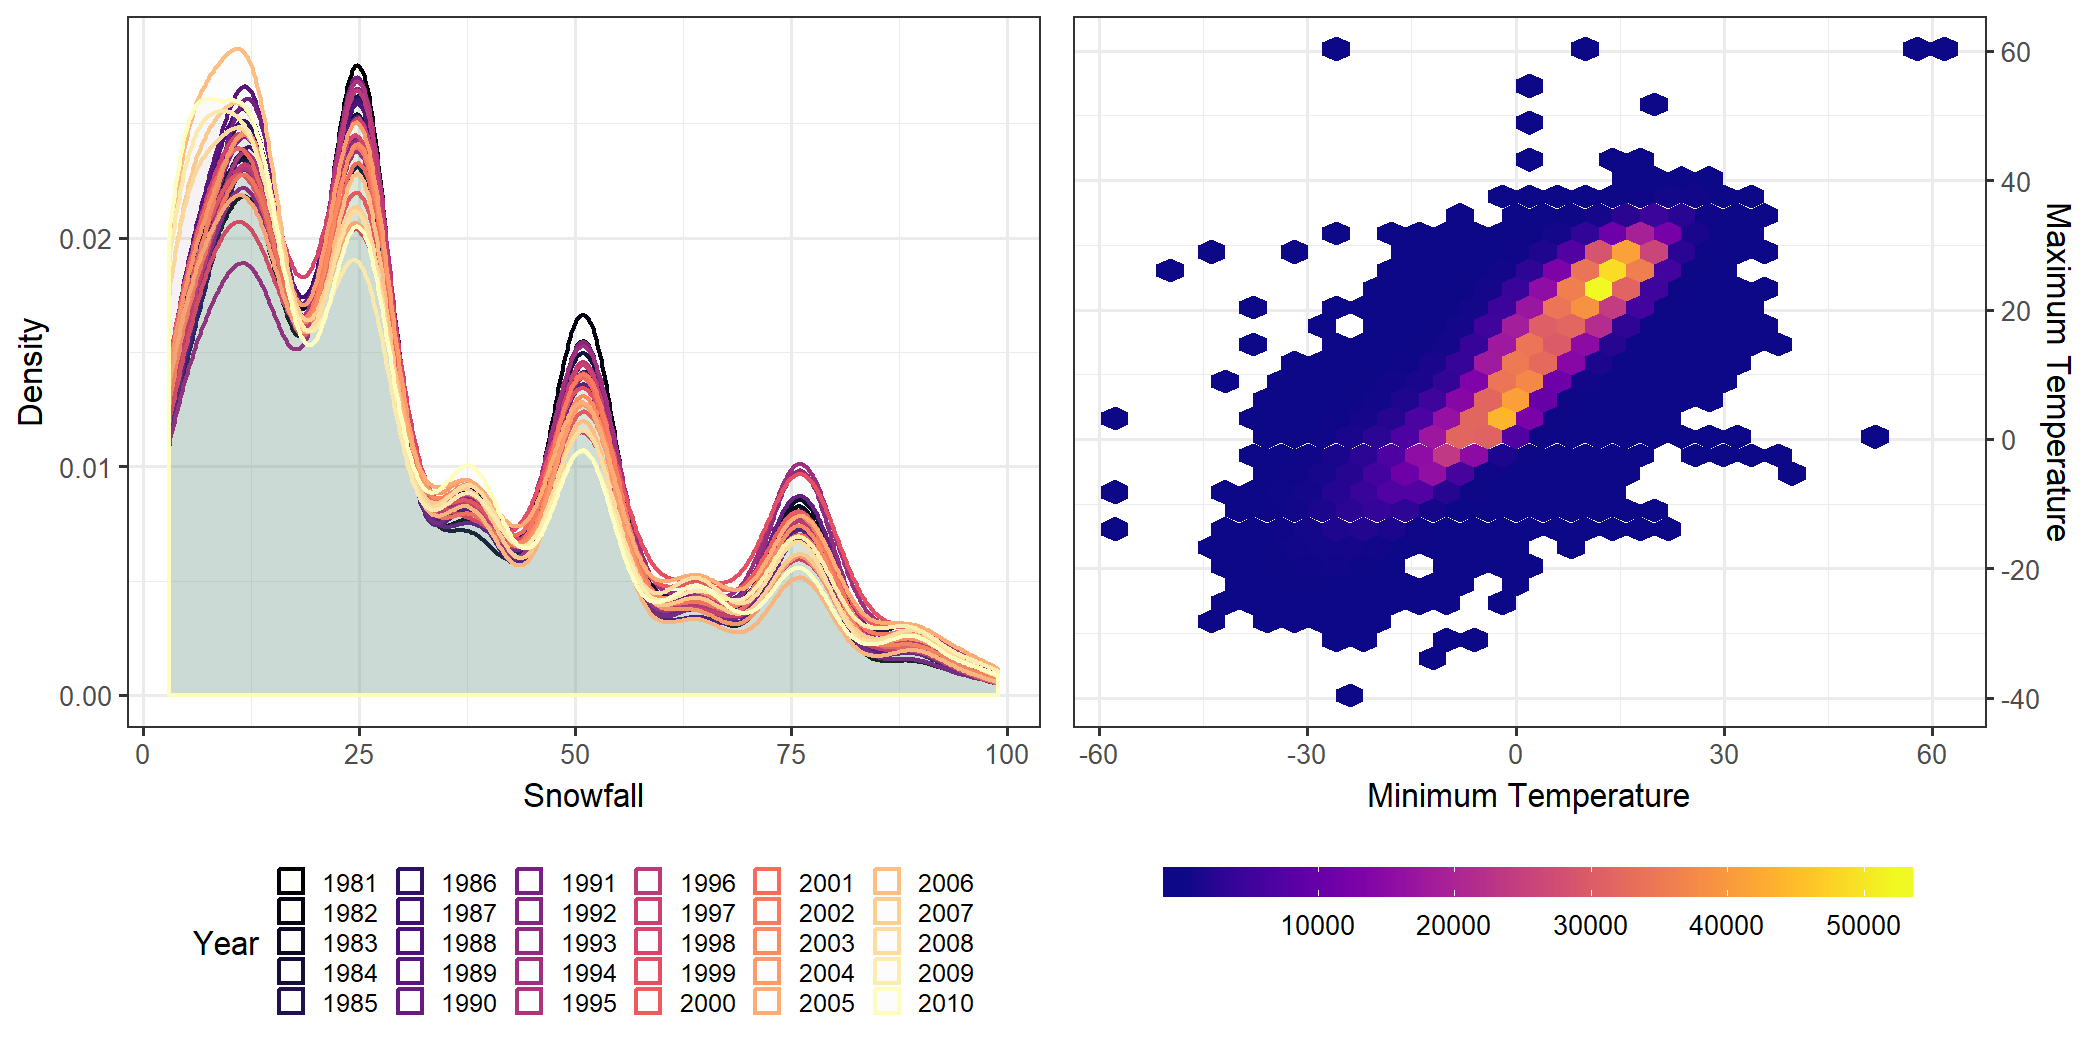
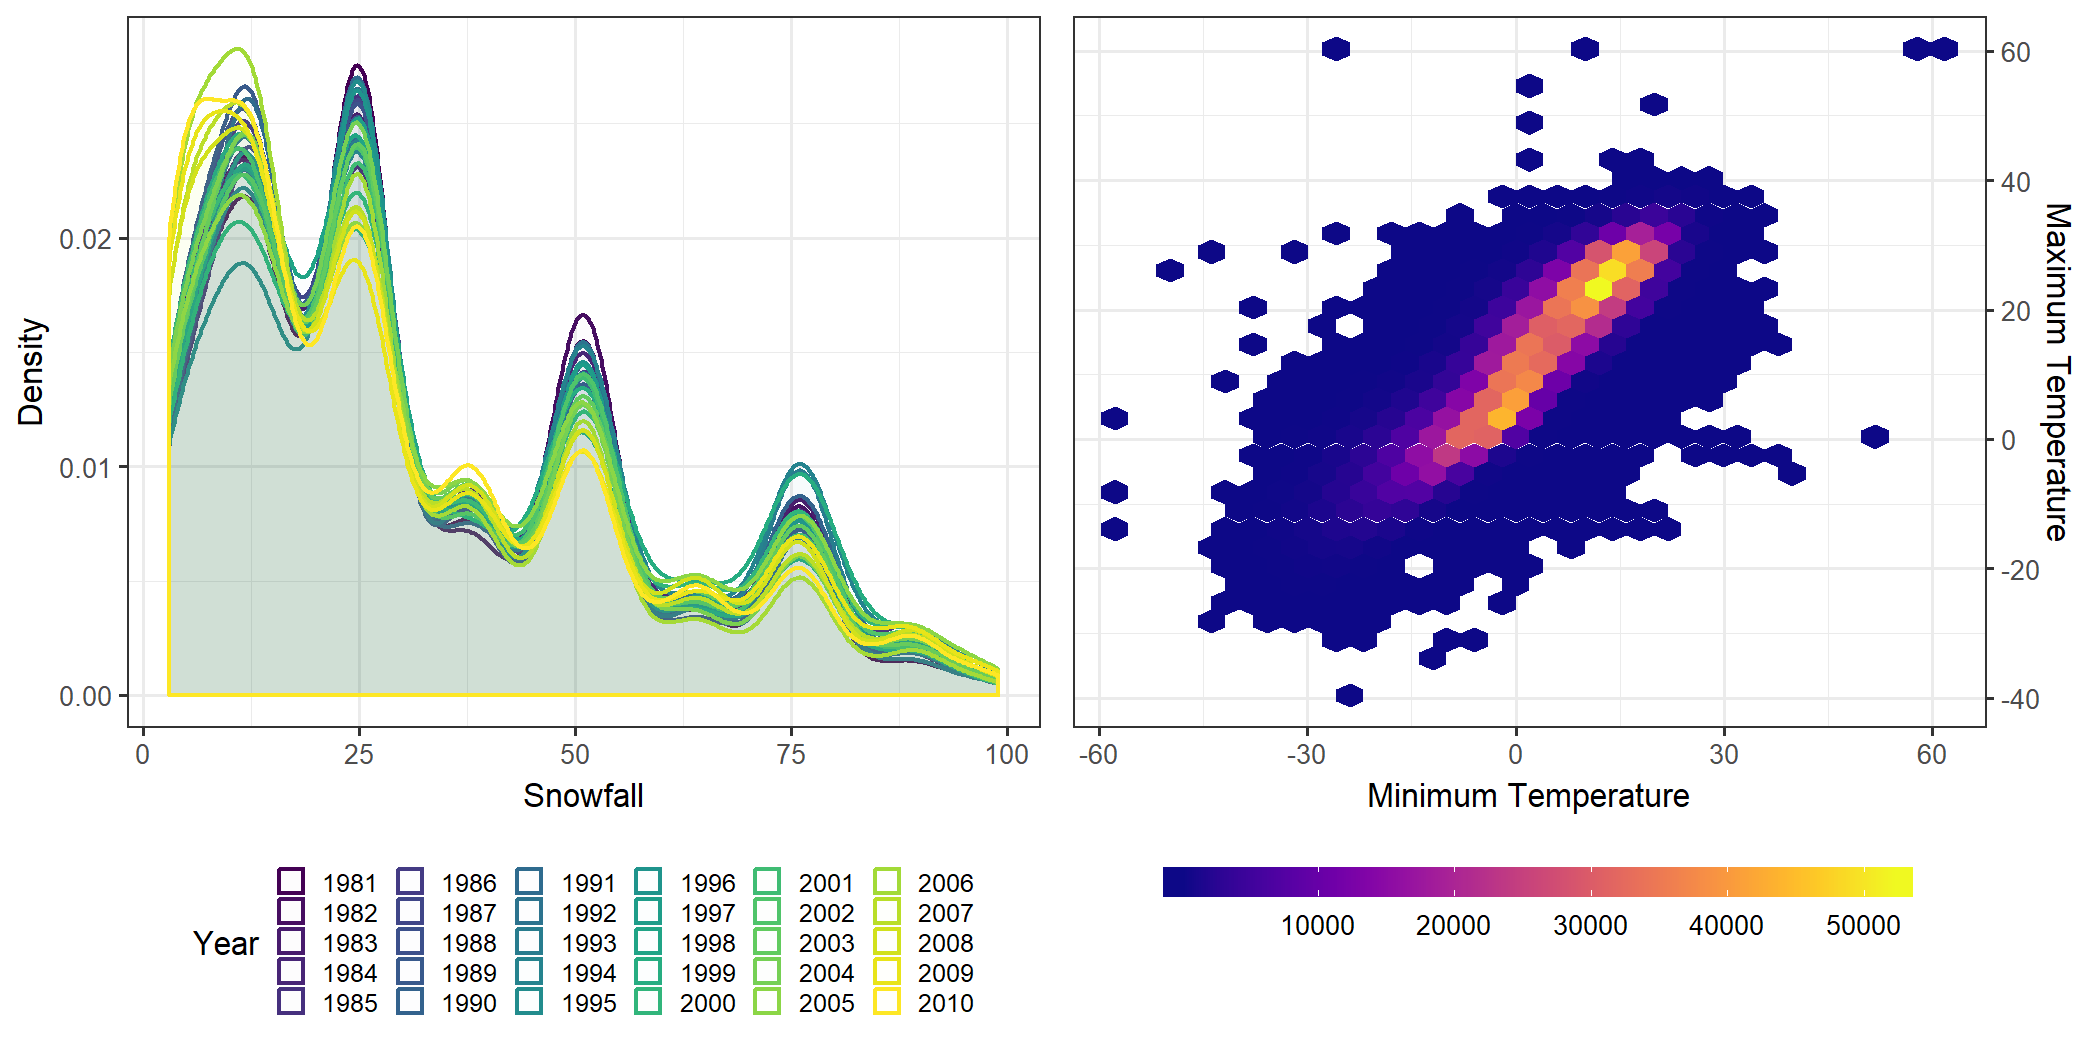
answered questions for problem 1

diff --git a/p8105_hw3_ntw2117.md b/p8105_hw3_ntw2117.md
@@ -18,6 +18,11 @@ brfss_data <- brfss_data %>%
                        -sample_size, 
                        -(confidence_limit_low:geo_location)) %>% 
   mutate(response = as.factor(response))
+
+brfss_data$response <- fct_relevel(brfss_data$response, 
+                                   "Excellent", 
+                                   "Very good", 
+                                   "Good")
 ```
 
 #### Questions and plots
@@ -27,17 +32,17 @@ brfss_data %>%
   filter(year == 2002) %>% 
   distinct(state, location) %>% 
   count(state) %>% 
-  filter(n == 7)
+  filter(n == 7) %>% 
+  knitr::kable()
 ```
 
-    ## # A tibble: 3 x 2
-    ##   state     n
-    ##   <chr> <int>
-    ## 1 CT        7
-    ## 2 FL        7
-    ## 3 NC        7
+| state |    n|
+|:------|----:|
+| CT    |    7|
+| FL    |    7|
+| NC    |    7|
 
--   In 2002, the states Connecticut, Florida, and North Carolina were observed at 7 locations.
+In 2002, the states Connecticut, Florida, and North Carolina were observed at 7 locations.
 
 ``` r
 brfss_data %>% 
@@ -50,7 +55,8 @@ brfss_data %>%
       name = "", 
       discrete = TRUE, 
       option = "magma") +
-    labs(x = "Year", 
+    labs(title = "Figure 1: Spaghetti plot of number of locations across states from 2002 to 2010", 
+         x = "Year", 
          y = "Number of Locations") + 
     theme(legend.position = "bottom", 
           legend.direction = "horizontal", 
@@ -59,6 +65,8 @@ brfss_data %>%
 ```
 
 <img src="p8105_hw3_ntw2117_files/figure-markdown_github/creating spaghetti plot-1.png" width="90%" style="display: block; margin: auto;" />
+
+Figure 1 shows the trends in the number of locations across all 50 states and the District of Columbia. From 2002 to 2010, all states except Florida had less than 20 locations. Furthermore, it appears that most states had a relatively constant number of locations over the eight year period.
 
 ``` r
 brfss_data %>% 
@@ -70,14 +78,17 @@ brfss_data %>%
   group_by(year) %>% 
   summarize("Average proportion excellent" = round(mean(prop_excel), 4), 
             "Standard deviation" = round(sd(prop_excel), 4)) %>% 
+  rename(Year = year) %>% 
   knitr::kable()
 ```
 
-|  year|  Average proportion excellent|  Standard deviation|
+|  Year|  Average proportion excellent|  Standard deviation|
 |-----:|-----------------------------:|-------------------:|
 |  2002|                        0.2405|              0.0450|
 |  2006|                        0.2253|              0.0400|
 |  2010|                        0.2270|              0.0356|
+
+Table 2 contains the average proportion of excellent responses across locations in New York for 2002, 2006, and 2010. A small decrease is observed from 2002 to 2006 and then remains constant from 2006 to 2010. The standard error decreases in 2010, most likely indicating that more responses were collected that year.
 
 ``` r
 library(patchwork)
@@ -93,7 +104,8 @@ poor_dist <- avg_response_year_state %>%
   ggplot(aes(x = avg_response, fill = year)) +
     geom_density(alpha = 0.5, color = NA) + 
     geom_text(x = 0, y = 0.40, 
-              label = "Poor", size = 3) + 
+              label = "Poor", 
+              size = 3) + 
     scale_x_continuous(limits = c(0, 45), 
                        breaks = c(0, 5, 10, 15, 20, 25, 30, 35, 40, 45)) + 
     viridis::scale_fill_viridis(discrete = TRUE, 
@@ -102,7 +114,9 @@ poor_dist <- avg_response_year_state %>%
     theme(axis.text.x = element_blank(), 
           panel.grid.major = element_blank(), 
           panel.grid.minor = element_blank()) + 
-    labs(y = "", x = "")
+    labs(title = "Figure 2: Density plots of the proportion of different respones across states from 2002 to 2010", 
+         y = "", 
+         x = "")
 
 fair_dist <- avg_response_year_state %>%
   filter(response == "Fair") %>%
@@ -175,6 +189,8 @@ poor_dist / fair_dist / good_dist / v_good_dist / excel_dist
 ```
 
 <img src="p8105_hw3_ntw2117_files/figure-markdown_github/average proportion response category across location by state-1.png" style="display: block; margin: auto;" />
+
+Figure 2 shows density plots of the different response categories from 2002 to 2010. Because all of the plots are on the same scale, you can observe the average increase in the proportion of responses from poor up to very good. After very good, the proportion of responses then slightly decreases for the excellent category. It also appears that the distributions within each category remains relatively constant, likely indicating that response does not vary over time.
 
 Problem 2
 ---------
@@ -327,11 +343,9 @@ snow_1981_2010 <- noaa_data %>%
   ggplot(aes(x = snow, fill = year, color = year)) +
   geom_density(alpha = 0.01) +
     viridis::scale_fill_viridis(name = "Year", 
-                                discrete = TRUE, 
-                                direction = -1) + 
+                                discrete = TRUE) + 
     viridis::scale_color_viridis(name = "Year",
-                                 discrete = TRUE, 
-                                 option = "magma") + 
+                                 discrete = TRUE) + 
     labs(x = "Snowfall", 
          y = "Density") + 
     theme(legend.position = "bottom", 
